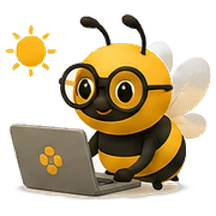
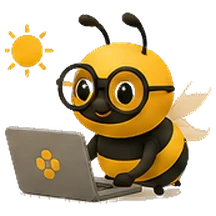
v1.37: Pfand hinter ein Haken, Bienen wirklich freigestellt
Julian: "pfand einen haken setzen sonst nicht anzeigen, die seite kleinhalten"
und "wie beim mhd". Genau so: ohne Haken sieht man nur die Zeile "Mehrweg mit
Pfand", die zwei Felder erscheinen erst danach. Haken weg loescht auch ein altes
Pfand, damit nichts Verborgenes weiterwirkt.

Und die Bienen. Julian hat zweimal recht gehabt: erstens blieben die vom Motiv
EINGESCHLOSSENEN Hintergrundflaechen stehen, weil die Flutfuellung nur am
Bildrand begann - der Spalt zwischen Biene und Laptop und die Brillenglaeser.
Jetzt ist jedes Pixel in Blattfarbe ein Saatpunkt, egal wo: 100 Restpixel in der
09-Uhr-Biene wurden null.

Zweitens der Konturensaum: ein Mischpixel aus Hintergrund und Motiv galt als
Motiv und behielt die aufgehellte Farbe, auf dunklem Grund ein grauer Saum. Jetzt
wird die echte Motivfarbe aus dem Nachbarn geholt und die Deckkraft daraus
gerechnet, zwei Ringe tief.

Der helle Strich am Laptop bleibt: der ist im Original gezeichnet, kein Rest.

293/293 Tests gruen, SW-Cache v149.

diff --git a/index.html b/index.html
@@ -947,8 +947,12 @@ const CDN = {
    und oben einen neuen CHANGELOG-Eintrag ergänzen. Nach dem Update
    zeigt die App dem Nutzer einmalig ein „Was ist neu?“-Fenster.
    ===================================================================== */
-const APP_VERSION = '1.36';
+const APP_VERSION = '1.37';
 const CHANGELOG = [
+  { version: '1.37', datum: '2026-08-07', punkte: [
+    'Das Pfand steckt jetzt hinter einem Häkchen <b>„Mehrweg mit Pfand"</b> – wie beim Mindesthaltbarkeitsdatum. Ohne Haken bleibt das Formular kurz, denn die meisten Gebinde sind Einweg.',
+    'Die Tagesbienen sind noch einmal freigestellt: zwischen Biene und Laptop und in den Brillengläsern blieben eingeschlossene Reste des hellen Hintergrunds stehen, die im Dunkelmodus durchschimmerten. Auch die Konturen sind jetzt sauber gerechnet statt hart abgeschnitten.',
+  ] },
   { version: '1.36', datum: '2026-08-07', punkte: [
     'Neu: <b>Pfand für Mehrweg-Gebinde</b> – für alle, die Gläser oder Eimer zurücknehmen. Trag am Gebinde „Pfand je Gebinde" ein, dann zeigt die App unter Verbrauchsmaterial <b>wie viele beim Kunden sind</b> und <b>wieviel Pfand offen ist</b>.',
     '<b>Rücknahme buchen</b>: Anzahl und von wem – der Bestand steigt wieder, und das Pfand wird als Ausgabe im Kassenbuch gebucht, ohne Umsatzsteuer. Denn Pfand ist eine Schuld, kein Erlös.',
@@ -8337,9 +8341,12 @@ async function renderInventarBereich(main, cfg) {
         default: i && i.gebindeG ? gebindeLabel(gebindeGrammAus(i.gebindeG)) : '',
         options: GEBINDE_PRESETS.map((g) => gebindeLabel(g)),
         hint: 'Nur für Gläser und Eimer: für welche Größe die Position gilt. Damit zieht die App beim Abfüllen automatisch die richtigen Gläser ab. Eigene Größen wie „30 g" gehen auch. Deckel und Etiketten, die für mehrere Größen passen, lässt du leer.' },
-      { key: 'pfand', label: 'Pfand je Gebinde (€)', type: 'number', halb: true,
-        hint: 'Nur bei Mehrweg – wenn Kunden das Gebinde zurückbringen und du das Pfand erstattest. Dann zeigt die App, wie viele draußen sind, und du kannst Rücknahmen buchen. Leer lassen heißt Einweg; dann erscheint nichts weiter dazu.' },
-      { key: 'pfandSeit', label: 'Pfand erhoben seit', type: 'date', halb: true, showIf: (f) => Number(f.pfand) > 0,
+      /* Erst die Frage, dann die Felder – wie beim MHD. Ohne Häkchen bleibt das
+         Formular kurz; die meisten Gebinde sind Einweg. */
+      { key: '_hatPfand', label: 'Mehrweg mit Pfand', type: 'check', default: !!(i && Number(i.pfand) > 0),
+        hint: 'Nur ankreuzen, wenn Kunden das Gebinde zurückbringen und du das Pfand erstattest. Dann zeigt die App, wie viele draußen sind, und du kannst Rücknahmen buchen.' },
+      { key: 'pfand', label: 'Pfand je Gebinde (€)', type: 'number', halb: true, showIf: (f) => !!f._hatPfand },
+      { key: 'pfandSeit', label: 'Pfand erhoben seit', type: 'date', halb: true, showIf: (f) => !!f._hatPfand,
         default: i && i.pfandSeit ? i.pfandSeit : U.todayIso(),
         hint: 'Ab diesem Tag zählt die App Abfüllungen als Pfandware. Ohne Datum würde jedes je verkaufte Glas mitgezählt – auch das aus der Zeit ohne Pfand.' },
       /* Zeile hier beenden: sonst rutscht „Mindestbestand" neben das Pfandfeld,
@@ -8378,6 +8385,8 @@ async function renderInventarBereich(main, cfg) {
       v.gebindeG = gebindeGrammAus(v.gebindeG);      // „500 g" / „0,5 kg" → Gramm
       if (!v._hatMhd) v.ablauf = null;               // Häkchen weg heißt: kein MHD, auch kein altes
       delete v._hatMhd;                              // Hilfsfeld nicht mitspeichern
+      if (!v._hatPfand) { v.pfand = 0; v.pfandSeit = null; }   // kein Mehrweg → auch kein altes Pfand
+      delete v._hatPfand;
       /* Packungsangaben bleiben gespeichert, damit man sie später wieder sieht
          und ändern kann. Der Stückpreis wird daraus neu gerechnet – nicht dem
          Formularfeld geglaubt, das könnte veraltet sein. */

diff --git a/tests/tests.js b/tests/tests.js
@@ -4575,3 +4575,32 @@ test('Pfand: Rücknahme hebt den Bestand und bucht eine Ausgabe ohne Umsatzsteue
   assertEq(w.STORE_LABELS.pfandbewegungen, 'Pfand-Rücknahme', 'mit lesbarem Namen im Papierkorb');
   assert(w.DB.VER >= 9, `DB-Version mindestens 9: ${w.DB.VER}`);
 });
+
+test('Pfand: steckt hinter einem Häkchen – wie beim MHD', async (w) => {
+  w.document.querySelectorAll('.modal-back').forEach((x) => x.remove()); w.FormGuard.dirty = false;
+  const host = w.document.createElement('div'); w.document.body.appendChild(host);
+  try {
+    await w.Views.material.render(host);
+    host.querySelector('#add').click();
+    await new Promise((r) => setTimeout(r, 250));
+    const m = [...w.document.querySelectorAll('.modal-back')].pop();
+    const sichtbar = (k) => { const e = m.querySelector(`[data-field="${k}"]`); return !!e && !e.classList.contains('hidden'); };
+    const haken = m.querySelector('#f-_hatPfand');
+    assert(haken, 'die Frage „Mehrweg mit Pfand" ist da');
+    assertEq(haken.checked, false, 'bei einer neuen Position erst mal kein Pfand');
+    assert(!sichtbar('pfand'), 'Pfandbetrag bleibt verborgen – das Formular bleibt kurz');
+    assert(!sichtbar('pfandSeit'), 'das Startdatum auch');
+    haken.checked = true; haken.dispatchEvent(new w.Event('change', { bubbles: true }));
+    await new Promise((r) => setTimeout(r, 120));
+    assert(sichtbar('pfand') && sichtbar('pfandSeit'), 'nach dem Haken erscheinen beide Felder');
+    // die Paare darunter dürfen nicht verrutschen (Trenner)
+    const oben = (k) => Math.round(m.querySelector(`[data-field="${k}"]`).getBoundingClientRect().top);
+    assertEq(oben('pfand'), oben('pfandSeit'), 'Pfand und Startdatum stehen nebeneinander');
+    assertEq(oben('mindestbestand'), oben('anschaffung'), 'Mindestbestand und Zugang bleiben ein Paar');
+    haken.checked = false; haken.dispatchEvent(new w.Event('change', { bubbles: true }));
+    await new Promise((r) => setTimeout(r, 120));
+    assert(!sichtbar('pfand'), 'Haken weg → Felder wieder verborgen');
+    assertEq(oben('mindestbestand'), oben('anschaffung'), 'und die Paare bleiben trotzdem stabil');
+    m.remove(); w.FormGuard.dirty = false;
+  } finally { host.remove(); w.document.querySelectorAll('.modal-back').forEach((x) => x.remove()); w.FormGuard.dirty = false; }
+});

diff --git a/service-worker.js b/service-worker.js
@@ -2,7 +2,7 @@
    Strategie: HTML-Seite NETWORK-FIRST (online immer frisch → Updates erscheinen
    sofort, offline aus Cache), übrige App-Dateien stale-while-revalidate,
    CDN-Bibliotheken cache-first (versionierte URLs), APIs network-only. */
-const CACHE = 'imkerbuch-v148';
+const CACHE = 'imkerbuch-v149';
 const SHELL = ['./', './index.html', './manifest.json', './icon-192.png', './icon-512.png', './icon-180.png', './impressum.html', './datenschutz.html', './agb.html',
   // selbst gehostete Bibliotheken (PDF/Excel/QR) – einmal geladen = komplett offline nutzbar
   './libs/jspdf.umd.min.js', './libs/jspdf.plugin.autotable.min.js', './libs/pdf.min.js', './libs/pdf.worker.min.js', './libs/qrcode.min.js', './libs/xlsx.full.min.js'];

diff --git a/PROJEKT.md b/PROJEKT.md
@@ -3,7 +3,7 @@
 > **Diese Datei ist die einzige Wahrheitsquelle über den Projektstand.**
 > Zu Beginn jeder Sitzung und nach jeder Kontext-Kompaktierung zuerst vollständig lesen
 > (inkl. der verlinkten Docs, wenn am jeweiligen Thema gearbeitet wird).
-> Stand: 2026-08-06 · **v1.36 · alle Module + Bio-Reiter mit amtlicher Landbedeckung (GeoBox-Dienst + 2 Rückfall-Ebenen) + Verbrauchsmaterial/Materialabgang + Futter-Rechner + Imkerschule + Landing Page + Store-Assets, 292/292 Tests grün, LIVE auf GitHub Pages**
+> Stand: 2026-08-06 · **v1.37 · alle Module + Bio-Reiter mit amtlicher Landbedeckung (GeoBox-Dienst + 2 Rückfall-Ebenen) + Verbrauchsmaterial/Materialabgang + Futter-Rechner + Imkerschule + Landing Page + Store-Assets, 293/293 Tests grün, LIVE auf GitHub Pages**
 
 ## Dokumentation (Docs as Code)
 
@@ -73,6 +73,12 @@ python3 -m http.server 8931 -d ~/ImkerApp   # dann http://localhost:8931
 - **Single-File-Modularität**: Auf ES-Module/Dateisplit wurde bewusst verzichtet (Prompt fordert eine index.html). Modularität über Namespaces + Banner-Abschnitte + expliziten window-Export, s. [ARCHITEKTUR.md](docs/ARCHITEKTUR.md#modul-aufbau-in-indexhtml).
 
 ## Historie
+
+- **2026-08-07 (v1.37)**: **Pfand hinter ein Häkchen** (Julian: „pfand einen haken setzen sonst nicht anzeigen, die seite kleinhalten sonst ist es so überladen" · „wie beim mhd"): `_hatPfand` als `check` (vorbelegt aus einem vorhandenen Pfand), `pfand` + `pfandSeit` per `showIf`; Häkchen weg → `pfand = 0`, `pfandSeit = null`. Ohne Haken 19 statt 21 sichtbare Felder, Paare bleiben dank `_trennPfand` stabil.
+  ⚠ **Bienen-Freistellung dritter Anlauf** (Julian: „im dunkelmodus zwischen biene und laptop und bei der brille, schau es dir richtig an"). Zwei echte Fehler, beide bestätigt und behoben:
+  (1) **Eingeschlossene Hintergrundflächen** blieben stehen – die Flutfüllung startete nur am Bildrand und erreichte den Spalt zwischen Biene und Laptop sowie die Innenflächen der Brillengläser nie. Fix: **jedes** Pixel in Blattfarbe (`abst ≤ 16`) ist Saatpunkt, egal wo. Messung 09:00: 100 → **0** deckende Cremepixel.
+  (2) **Grauer Konturensaum**: ein Mischpixel aus Creme und Motiv hat großen Abstand zur Blattfarbe, wurde also als Motiv durchgelassen und behielt die aufgehellte Mischfarbe – auf dunklem Grund ein heller Saum (deutlich an den Fühlern). Fix: für jedes Randpixel die echte Motivfarbe **F** aus dem Nachbarn 2–3 px weiter innen holen und `p = a·F + (1−a)·BG` nach `a` lösen (per Kanal, wo `|F−BG| > 25`, sonst über den Abstand). **Zwei Ringe**, weil die Kantenglättung des Blattes 2 px breit ist.
+  **Nicht behoben, weil kein Fehler**: der Laptop hat im Original eine **hell gezeichnete Kantenlinie** (3D-Stil) – auf Creme unsichtbar, auf dunkel ein Haar breit sichtbar. Am Original nachgesehen und Julian gezeigt; Abdunkeln wäre ein Eingriff in die Zeichnung, deshalb nur angeboten. SW → v149.
 
 - **2026-08-07 (v1.36)**: **Pfand für Mehrweg-Gebinde** (Julian: „ich möchte alles abdecken – leute die pfand nehmen und welche die kein pfand nehmen"). **Der Schalter ist das Pfandfeld selbst**: steht dort nichts, ist die Position Einweg und der ganze Pfand-Abschnitt bleibt unsichtbar – kein Schalter in den Einstellungen, den man erst finden muss.
   Neuer Speicher **`pfandbewegungen` (DB.VER 9)** – bewusst NICHT in `materialabgaenge`, damit die geprüfte Abgangs-Auswertung unangetastet bleibt (eine Rücknahme ist ein Zugang). `verbrauchZugang` als Gegenstück zu `verbrauchAbziehen`. `pfandPositionen` / `pfandUmlauf` (netzfrei prüfbar) / `pfandRuecknahmeForm`.
